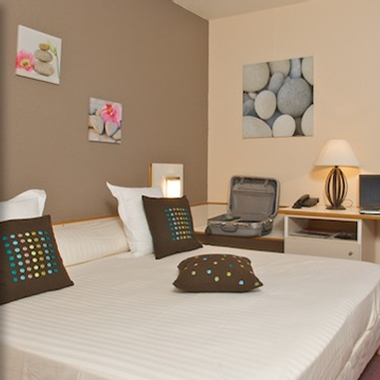
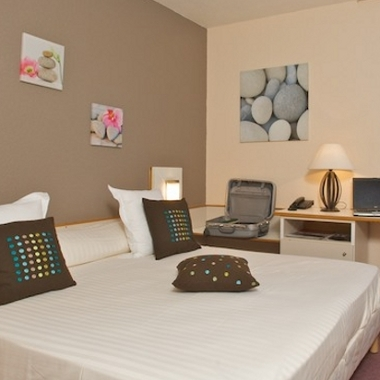
Ombre centrale

diff --git a/sources/rootpages/index.html b/sources/rootpages/index.html
@@ -10,6 +10,9 @@
         module(left_column)
         
         <div id="content">
+        
+    		<div id="ombrecentrale"></div>
+    		
         	<div id="carrouselhome">
         		<img src="imgcontenu/home/chambremarron.jpg" alt="{Chambre agr&eacute;able, de type Prestige//Lovely room, of the Prestige type}" class="img1"/>
         		<img src="imgcontenu/home/pdj.jpg" alt="{Un petit-d&eacute;jeuner en &eacute;t&eacute;//Breakfast in the summertime}" style="display:none" class="img2"/>

diff --git a/WebContent/index.html b/WebContent/index.html
@@ -137,6 +137,9 @@ var customPath = "/hoteltenor";
 
  
  <div id="content">
+ 
+ <div id="ombrecentrale"></div>
+ 
  <div id="carrouselhome">
  <img src="imgcontenu/home/chambremarron.jpg" alt="Chambre agr&eacute;able, de type Prestige" class="img1"/>
  <img src="imgcontenu/home/pdj.jpg" alt="Un petit-d&eacute;jeuner en &eacute;t&eacute;" style="display:none" class="img2"/>

diff --git a/WebContent/index-en.html b/WebContent/index-en.html
@@ -137,6 +137,9 @@ var customPath = "/hoteltenor";
 
  
  <div id="content">
+ 
+ <div id="ombrecentrale"></div>
+ 
  <div id="carrouselhome">
  <img src="imgcontenu/home/chambremarron.jpg" alt="Lovely room, of the Prestige type" class="img1"/>
  <img src="imgcontenu/home/pdj.jpg" alt="Breakfast in the summertime" style="display:none" class="img2"/>

diff --git a/WebContent/css/styles.css b/WebContent/css/styles.css
@@ -648,3 +648,10 @@ form#reservation .submit input {
 		src='img/x.png', sizingMethod='scale'
 	);
 }
+#ombrecentrale {
+	height: 760px;
+	width: 14px;
+	position: absolute;
+	background-image: url('../img/ombrecentral.png');
+	z-index: 1;
+}

diff --git a/WebContent/chambres.html b/WebContent/chambres.html
@@ -138,6 +138,8 @@ var customPath = "/hoteltenor";
  
  <div id="content">
  
+ <div id="ombrecentrale"></div>
+ 
  <div class="tophalf">
  <div class="righttext">
  <h2>Chambres &agrave; louer</h2>

diff --git a/sources/rootpages/chambres.html b/sources/rootpages/chambres.html
@@ -10,6 +10,8 @@
         module(left_column)
         
         <div id="content">
+        
+    		<div id="ombrecentrale"></div>
 			
 			<div class="tophalf">
 				<div class="righttext">

diff --git a/sources/rootpages/pratique.html b/sources/rootpages/pratique.html
@@ -10,6 +10,8 @@
         module(left_column)
         
         <div id="content">
+        
+    		<div id="ombrecentrale"></div>
 			
 			<div class="tophalf pratique">
 				<div id="map">

diff --git a/WebContent/chambres-en.html b/WebContent/chambres-en.html
@@ -138,6 +138,8 @@ var customPath = "/hoteltenor";
  
  <div id="content">
  
+ <div id="ombrecentrale"></div>
+ 
  <div class="tophalf">
  <div class="righttext">
  <h2>Rooms to rent</h2>

diff --git a/WebContent/pratique-en.html b/WebContent/pratique-en.html
@@ -138,6 +138,8 @@ var customPath = "/hoteltenor";
  
  <div id="content">
  
+ <div id="ombrecentrale"></div>
+ 
  <div class="tophalf pratique">
  <div id="map">
  </div>

diff --git a/WebContent/pratique.html b/WebContent/pratique.html
@@ -138,6 +138,8 @@ var customPath = "/hoteltenor";
  
  <div id="content">
  
+ <div id="ombrecentrale"></div>
+ 
  <div class="tophalf pratique">
  <div id="map">
  </div>
